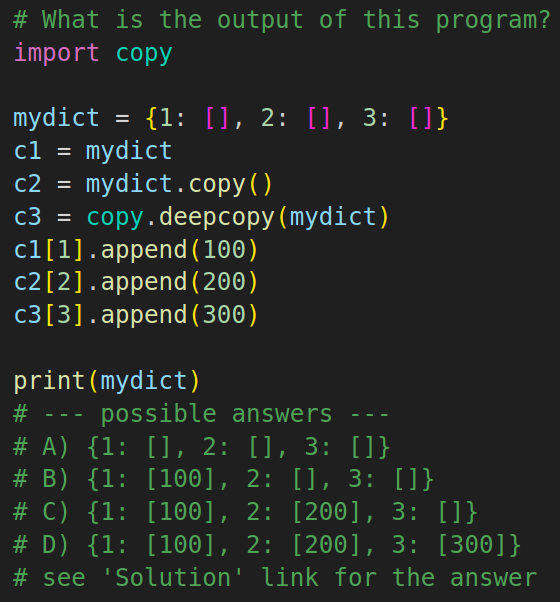
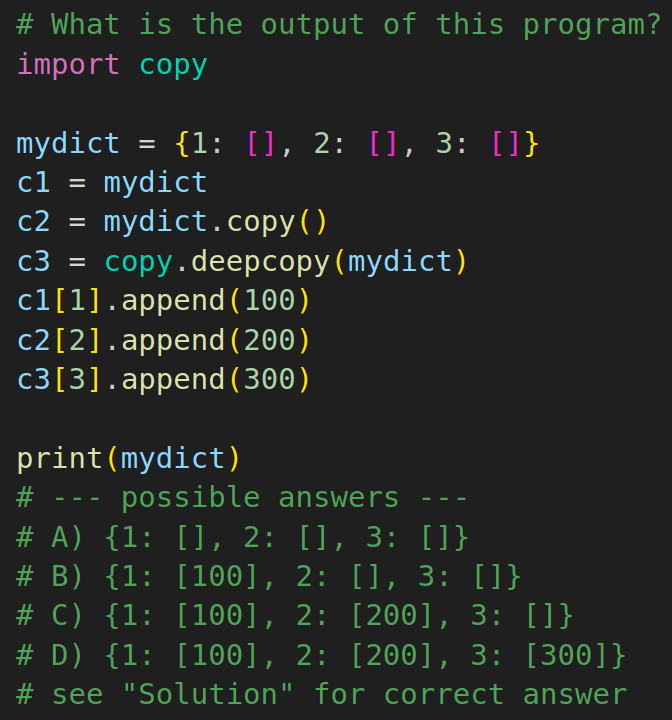
update

diff --git a/exercises/exercise1.py b/exercises/exercise1.py
@@ -16,7 +16,7 @@ print(mydict)
 # B) {1: [100], 2: [], 3: []}
 # C) {1: [100], 2: [200], 3: []}
 # D) {1: [100], 2: [200], 3: [300]}
-
+# see "Solution" for correct answer
 
 
 
